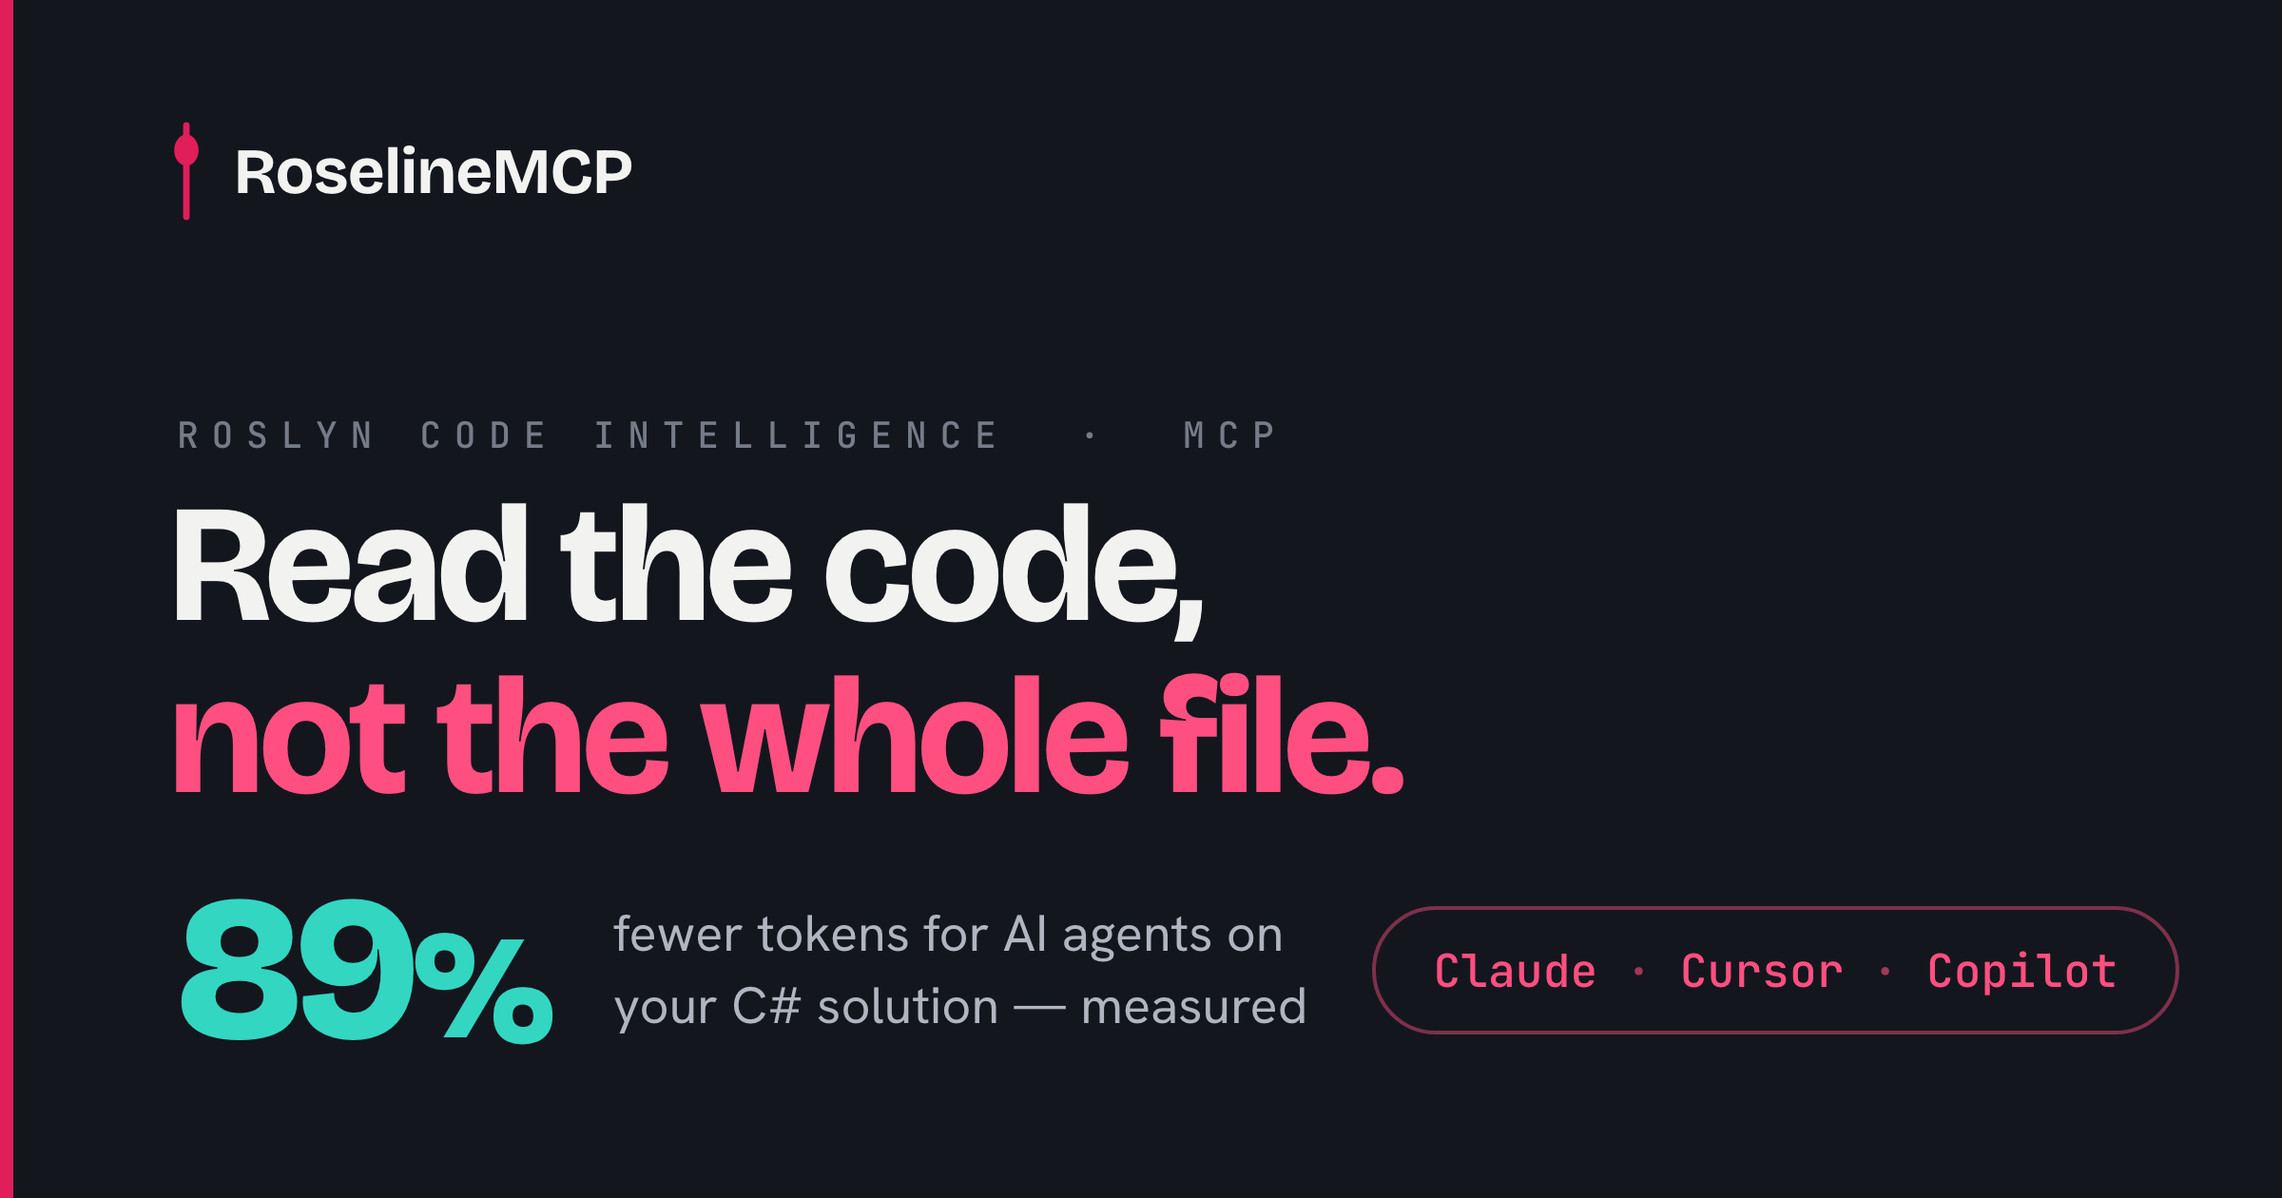
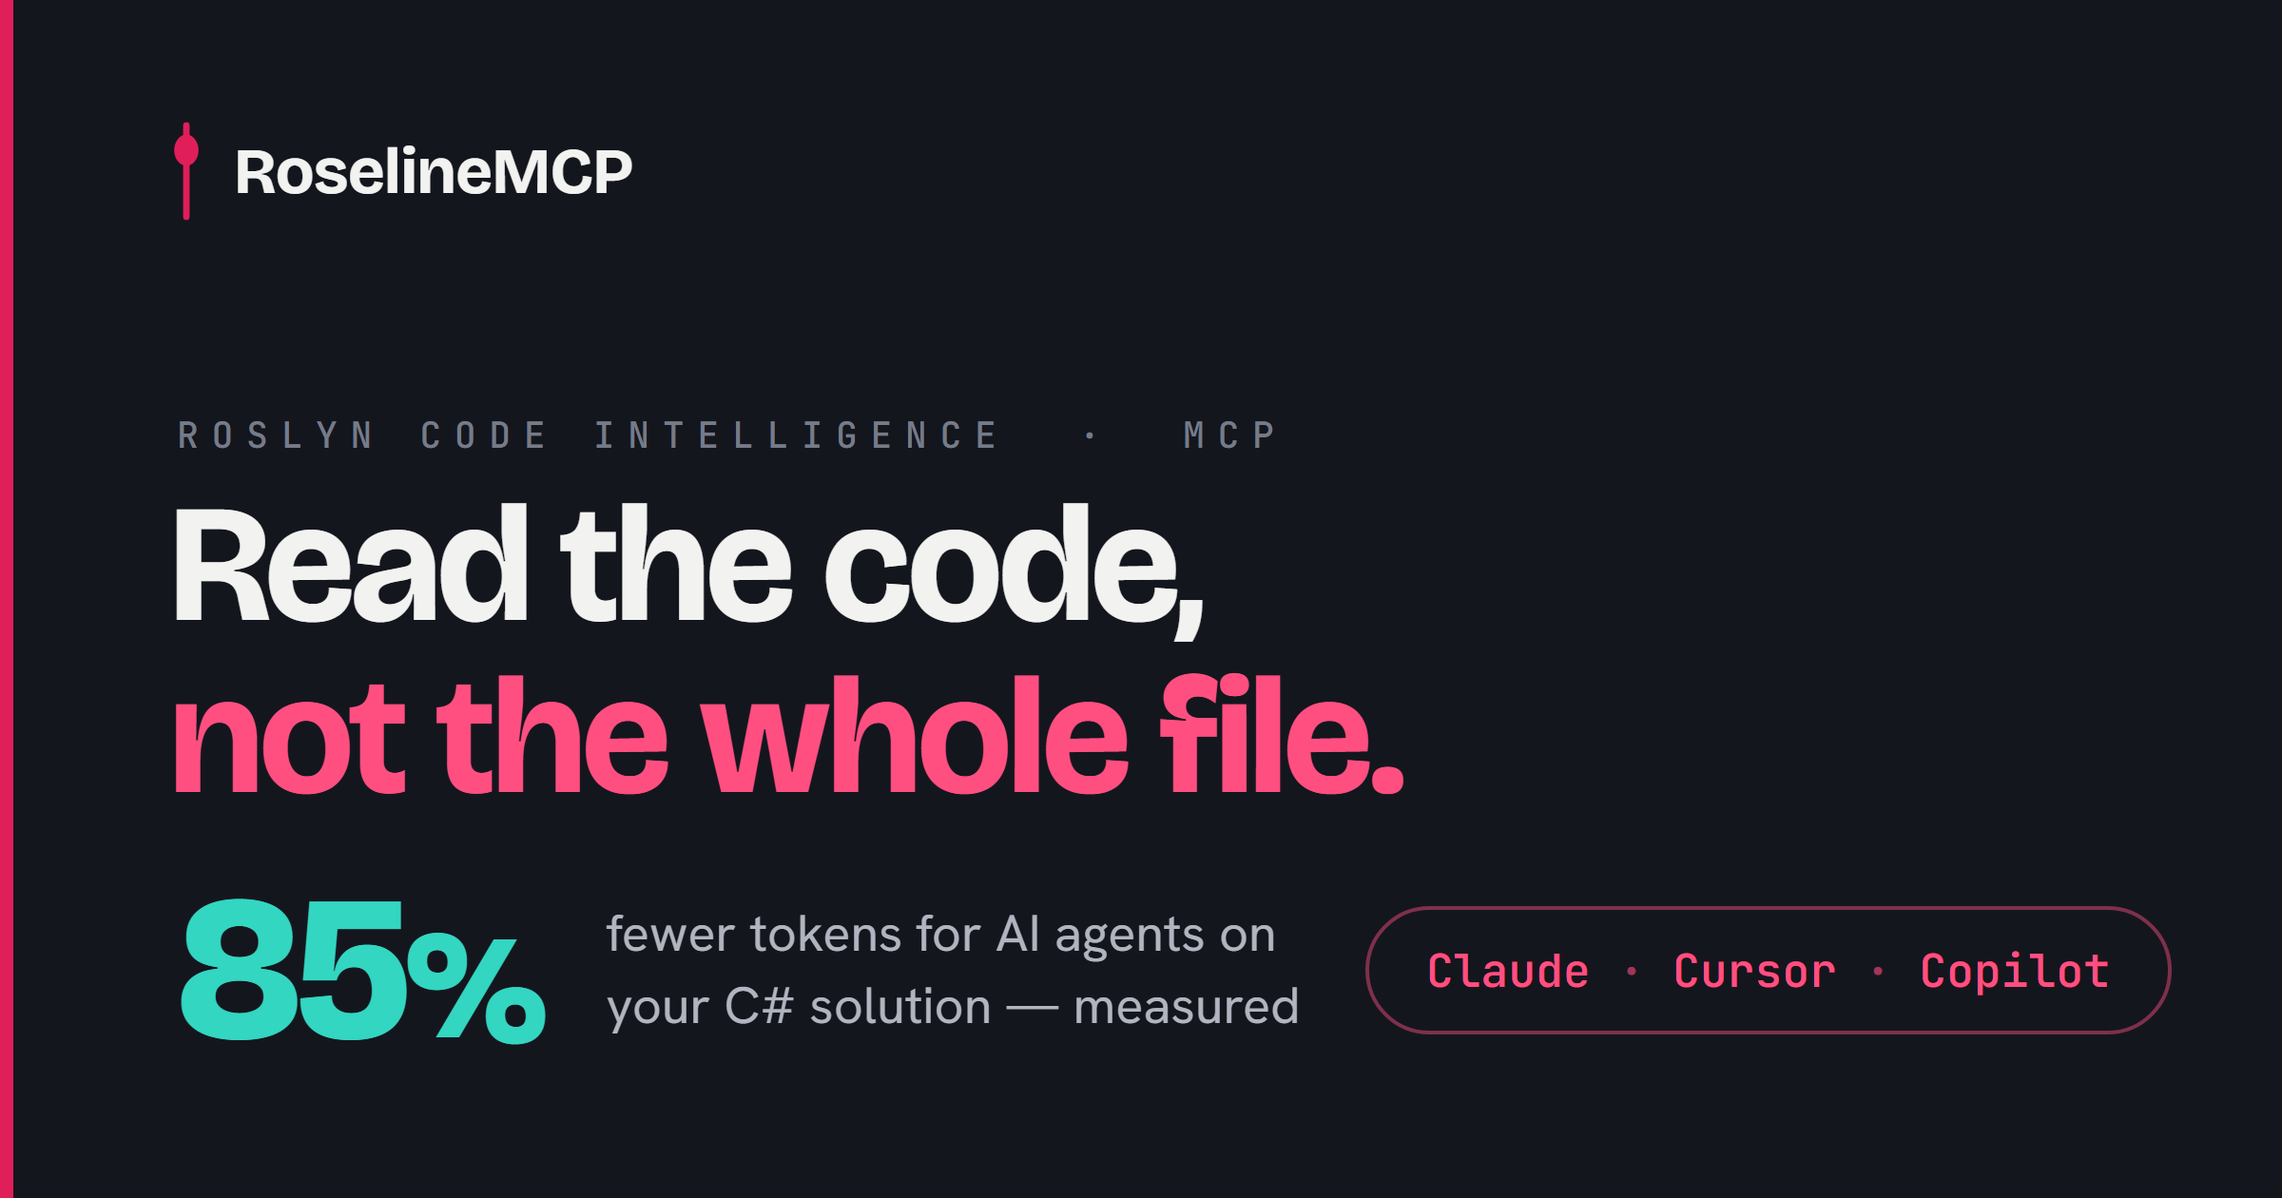
fix(docs): sync the published median token figure with the generated benchmark data (#182) (#195)
* chore(#182): scaffold draft PR for the median-figure sync

* test(docs): pin the published median token figure to the generated benchmark data

* fix(docs): correct the stale 89% median in BENCHMARKS, AGENT-BENCHMARK and the mcpb manifest

* fix(website): re-render the OG card with the current median figure

* docs: record what the median-figure guard rail does and does not cover

* fix: address code-review findings

diff --git a/website/og-card.html b/website/og-card.html
@@ -113,7 +113,7 @@
   </div>
 
   <div class="stat-row">
-    <div class="stat">89<span class="pct">%</span></div>
+    <div class="stat">85<span class="pct">%</span></div>
     <div class="caption">fewer tokens for AI agents on<br />your C# solution — measured</div>
     <div class="pill">Claude <span class="sep">·</span> Cursor <span class="sep">·</span> Copilot</div>
   </div>

diff --git a/RoselineMCP.Tests/Release/MedianFigureContractTests.cs b/RoselineMCP.Tests/Release/MedianFigureContractTests.cs
@@ -1,0 +1,256 @@
+using System.Globalization;
+using System.Runtime.CompilerServices;
+using System.Text;
+using System.Text.Json;
+using Shouldly;
+
+namespace RoselineMCP.Tests.Release;
+
+/// <summary>
+/// Pins every <b>hand-written</b> restatement of the headline token-saving median to the value
+/// <c>RoselineMCP.TokenBenchmark</c> actually generated, in
+/// <c>website/src/data/benchmark-results.json</c>.
+/// <para>
+/// <b>Why this exists.</b> Nine surfaces publish that median. Two <i>derive</i> it
+/// (<c>index.astro</c>, <c>benchmark.astro</c>, via <c>Math.round(x * 100)</c>) and have never
+/// drifted, because they cannot. The other seven restate it by hand, and re-measuring the benchmark
+/// moves the number under all seven at once. That has now happened twice - at [2.1.1] and again
+/// when the sweep grew from 568 to 670 tasks and the median moved 88.55% to 84.66% - and both times
+/// a careful "did you update them all?" review pass announced completion and left something behind.
+/// The second pass fixed <c>docs/AGENT-BENCHMARK.md</c>'s first occurrence and missed its second,
+/// in the same file.
+/// </para>
+/// <para>
+/// The failure mode is silence: the pooled figure (93%) did not move, so every stale surface still
+/// gets half of its claim right and the mismatched half reads as a rounding difference. Nothing
+/// builds, nothing runs, nothing goes red - the repository simply publishes a number its own
+/// generated data does not support. This is the same class of guard as
+/// <see cref="ReleaseWorkflowTests"/>: an assertion the build can evaluate, standing in for a
+/// sentence in a changelog that asserted the surfaces were synced when nobody had checked.
+/// </para>
+/// <para>
+/// <b>A re-measurement is supposed to fail every test in this class at once.</b> When the median
+/// crosses a rounding boundary, that is not a broken test - it is the guard doing its only job.
+/// Update the surfaces the failure messages name; do not loosen the assertions, and do not write
+/// the expected percentage into this file. A test that hardcoded <c>85</c> would reproduce exactly
+/// the defect it exists to prevent.
+/// </para>
+/// <para>
+/// <b>Scope.</b> This class pins the <i>headline</i> median and nothing else. Two neighbouring
+/// figures are deliberately out of its reach and must not be folded in: the pooled, size-weighted
+/// 93%, which did not move with the median, and the separate end-to-end medians in
+/// <c>docs/AGENT-BENCHMARK.md</c> (the ~50% forced-use ceiling and ~13% self-directed figures),
+/// which measure a different thing entirely. That is why each claim below is anchored on the words
+/// around it rather than on a bare percentage: an assertion keyed to "any two-digit figure near the
+/// word median" would fail on those correct sentences and tell the reader to corrupt them.
+/// </para>
+/// </summary>
+public class MedianFigureContractTests
+{
+    /// <summary>
+    /// The generated source of truth. Everything else either derives from this file or is pinned
+    /// against it below.
+    /// </summary>
+    private const string BenchmarkDataPath = "website/src/data/benchmark-results.json";
+
+    /// <summary>
+    /// The four sites in the README, including the shields.io badge - whose figure is
+    /// <b>URL-encoded</b> (<c>%25</c> for the percent sign), so a reader looking for "85%" in the
+    /// raw file does not find it and a careless sweep skips the badge. The badge is the first
+    /// number anyone sees on the repository page.
+    /// </summary>
+    [Fact]
+    public void Readme_Should_State_The_Generated_Median()
+    {
+        AssertClaim("README.md", "Measured {median}% fewer tokens (median)", 1);
+        AssertClaim("README.md", "tokens-{median}%25_fewer_(median)", 1);
+        AssertClaim("README.md", "**median {median}% fewer tokens per task**", 1);
+        AssertClaim("README.md", "**{median}% median** token reduction per task", 1);
+    }
+
+    /// <summary>
+    /// <c>BENCHMARKS.md</c> introduces the three benchmarks by naming what each one measures, so its
+    /// median <i>is</i> the definition a reader carries into the rest of the docs. The neighbouring
+    /// pooled figure (93%) is correct and is deliberately not pinned here - it did not move when the
+    /// median did, which is precisely why the drift stayed invisible.
+    /// </summary>
+    [Fact]
+    public void Benchmarks_Doc_Should_State_The_Generated_Median()
+    {
+        AssertClaim("BENCHMARKS.md", "**{median}% median** headline", 1);
+    }
+
+    /// <summary>
+    /// <b>Two</b> occurrences, asserted by count rather than by "contains". This file is where the
+    /// bug this class guards actually lived: line 5 was corrected and line 52 was not, leaving the
+    /// document contradicting itself. A <c>ShouldContain</c> assertion passes that state, so it
+    /// would have shipped the defect while reporting green.
+    /// </summary>
+    [Fact]
+    public void AgentBenchmark_Doc_Should_State_The_Generated_Median_In_Both_Places()
+    {
+        AssertClaim("docs/AGENT-BENCHMARK.md", "**median {median}%** reduction per task", 1);
+        AssertClaim("docs/AGENT-BENCHMARK.md", "per-call savings ({median}% median)", 1);
+    }
+
+    /// <summary>
+    /// The site's default meta description and the <c>og:image:alt</c> that describes the social
+    /// card. The alt text is the one machine-readable claim about <c>website/public/og.png</c>, an
+    /// image no test can read - so if these two ever disagree with the card, the alt text is the
+    /// only side a build can see.
+    /// </summary>
+    [Fact]
+    public void Site_Layout_Should_State_The_Generated_Median_In_Both_Meta_Sites()
+    {
+        AssertClaim("website/src/layouts/Base.astro", "{median}% fewer tokens (median)", 2);
+    }
+
+    /// <summary>
+    /// <c>long_description</c> ships <i>inside</i> the <c>.mcpb</c> bundle attached to every GitHub
+    /// Release - it is the copy a user reads in their client while deciding whether to install. A
+    /// stale figure here is an overclaim that travels further from the repository than any other,
+    /// and it is reviewed by nobody, because the file is otherwise touched only by release-please's
+    /// version bump.
+    /// </summary>
+    [Fact]
+    public void Mcpb_Manifest_Should_State_The_Generated_Median()
+    {
+        AssertClaim("mcpb/manifest.json", "measured ~{median}% fewer tokens, median", 1);
+    }
+
+    /// <summary>
+    /// The template <c>website/public/og.png</c> is rendered from - the figure in every link
+    /// preview, social post and chat unfurl. This assertion pins the <b>template only</b>: the
+    /// rendered PNG is binary and is regenerated by hand, so a correct template with a stale image
+    /// still passes. That residual gap is real and is documented rather than papered over; see the
+    /// note in <c>BENCHMARKS.md</c>.
+    /// </summary>
+    [Fact]
+    public void OgCard_Template_Should_State_The_Generated_Median()
+    {
+        AssertClaim("website/og-card.html", "<div class=\"stat\">{median}<span class=\"pct\">%</span></div>", 1);
+    }
+
+    /// <summary>
+    /// Asserts that <paramref name="claimTemplate"/>, with the generated median substituted for
+    /// <c>{median}</c>, occurs in <paramref name="relativePath"/> exactly
+    /// <paramref name="expectedOccurrences"/> times - <b>and</b> that the same claim carrying any
+    /// other two-digit figure occurs nowhere in that file. The second half is what distinguishes
+    /// this from a <c>ShouldContain</c>: a file that states the current median once and a
+    /// superseded one somewhere else is exactly the defect being guarded, and "contains" passes it.
+    /// </summary>
+    private static void AssertClaim(string relativePath, string claimTemplate, int expectedOccurrences)
+    {
+        // Both sides are whitespace-normalised before matching. These are hard-wrapped Markdown
+        // files, so a claim routinely straddles a newline (README's "median 85% fewer tokens / per
+        // task" does today). Matching raw text would couple every assertion to the current wrap:
+        // re-flowing a paragraph would fail the guard for no real reason, and — worse — a stale
+        // figure written across a line break would slip past the sweep below unseen.
+        var text = Normalize(ReadRepoFile(relativePath));
+        var median = CurrentMedianPercent.Value;
+        var claim = Normalize(Fill(claimTemplate, median));
+
+        Occurrences(text, claim).ShouldBe(
+            expectedOccurrences,
+            $"{relativePath} should carry \"{claim}\" exactly {expectedOccurrences} time(s) - the median generated in {BenchmarkDataPath} is {median}%.");
+
+        // Only two-digit figures are swept: every published claim is one, and the generated median
+        // has never been outside that range. A future median of 9% or 100% would still be pinned by
+        // the positive assertion above; this loop would simply have nothing stale to find.
+        for (var other = 10; other <= 99; other++)
+        {
+            if (other == median)
+            {
+                continue;
+            }
+
+            var stale = Normalize(Fill(claimTemplate, other));
+
+            Occurrences(text, stale).ShouldBe(
+                0,
+                $"{relativePath} still carries \"{stale}\", but the generated median in {BenchmarkDataPath} is {median}%. Update the surface, not this test.");
+        }
+    }
+
+    /// <summary>
+    /// The generated median as a whole percentage, rounded the way the website rounds it. The site
+    /// uses JavaScript's <c>Math.round</c>, which breaks ties upward rather than to even, so
+    /// <c>Math.Floor(x + 0.5)</c> is used here instead of <c>Math.Round</c> - otherwise the test and
+    /// the page it guards could disagree about a value landing exactly on .5.
+    /// <para>
+    /// Read once for the whole class: the benchmark data is a ~550 KB document and cannot change
+    /// during a run, so parsing it per assertion would re-parse it nine times for one number.
+    /// </para>
+    /// </summary>
+    private static readonly Lazy<int> CurrentMedianPercent = new(() =>
+    {
+        using var document = JsonDocument.Parse(ReadRepoFile(BenchmarkDataPath));
+
+        var median = document.RootElement
+            .GetProperty("headline")
+            .GetProperty("medianSavingsReadTools")
+            .GetDouble();
+
+        return (int)Math.Floor((median * 100) + 0.5);
+    });
+
+    /// <summary>
+    /// Collapses every run of whitespace to a single space so a claim matches regardless of where
+    /// the file happens to wrap. See the comment in <see cref="AssertClaim"/> for why that coupling
+    /// would otherwise be a hole in the guard rather than merely an inconvenience.
+    /// </summary>
+    private static string Normalize(string text)
+    {
+        var builder = new StringBuilder(text.Length);
+        var pendingSpace = false;
+
+        foreach (var c in text)
+        {
+            if (char.IsWhiteSpace(c))
+            {
+                pendingSpace = true;
+                continue;
+            }
+
+            if (pendingSpace && builder.Length > 0)
+            {
+                builder.Append(' ');
+            }
+
+            pendingSpace = false;
+            builder.Append(c);
+        }
+
+        return builder.ToString();
+    }
+
+    /// <summary>
+    /// Substitutes the figure by plain replacement rather than <c>string.Format</c>: the pinned
+    /// claims include HTML and JSON fragments, and a stray brace in one of them would turn a
+    /// missing assertion into a format exception.
+    /// </summary>
+    private static string Fill(string claimTemplate, int median) =>
+        claimTemplate.Replace("{median}", median.ToString(CultureInfo.InvariantCulture), StringComparison.Ordinal);
+
+    private static int Occurrences(string haystack, string needle)
+    {
+        var count = 0;
+
+        for (var i = haystack.IndexOf(needle, StringComparison.Ordinal); i >= 0; i = haystack.IndexOf(needle, i + needle.Length, StringComparison.Ordinal))
+        {
+            count++;
+        }
+
+        return count;
+    }
+
+    private static string ReadRepoFile(string relativePath) => File.ReadAllText(RepoPath(relativePath));
+
+    /// <summary>
+    /// Resolves a repository-relative path from this source file's compile-time location - the same
+    /// idiom <see cref="ReleaseWorkflowTests"/> and <c>ToolSchemaSnapshotTests</c> use. This file
+    /// lives at <c>RoselineMCP.Tests/Release/</c>, so the repository root is two levels up.
+    /// </summary>
+    private static string RepoPath(string relativePath, [CallerFilePath] string sourceFile = "") =>
+        Path.GetFullPath(Path.Combine(Path.GetDirectoryName(sourceFile)!, "..", "..", relativePath));
+}

diff --git a/BENCHMARKS.md b/BENCHMARKS.md
@@ -9,11 +9,38 @@ how does it scale with project size?*
 
 > **Three different benchmarks, three different questions:** this one measures **latency**;
 > [`RoselineMCP.TokenBenchmark`](RoselineMCP.TokenBenchmark) measures how compact a single tool
-> response is (the **89% median** headline; pooled, size-weighted: 93%); and
+> response is (the **85% median** headline; pooled, size-weighted: 93%); and
 > [`docs/AGENT-BENCHMARK.md`](docs/AGENT-BENCHMARK.md) measures whether an AI agent doing a real
 > task **end to end** actually spends fewer tokens with RoselineMCP installed (spoiler: on large
 > codebases, yes — ~50% when forced onto the tools (the ceiling), ~13% in realistic self-directed
 > use (n = 1); on tiny ones, break-even).
+
+## Where the headline median is published, and what checks it
+
+`website/src/data/benchmark-results.json` (`headline.medianSavingsReadTools`) is the **source of
+truth** — `RoselineMCP.TokenBenchmark` generates it. `index.astro` and `benchmark.astro` compute
+**the headline median itself** from that file (`Math.round(x * 100)`), so that one number cannot
+drift on those pages. Every other published statement of it is hand-written, and
+`RoselineMCP.Tests/Release/MedianFigureContractTests.cs` pins each one against the JSON:
+`README.md` (four sites, badge included), this file, `docs/AGENT-BENCHMARK.md` (both occurrences),
+`website/src/layouts/Base.astro` (both), `mcpb/manifest.json` and `website/og-card.html`.
+Re-measuring is meant to fail all of them at once — update the surfaces the failure names; do not
+loosen the test.
+
+⚠ **"Computed" covers the headline median only.** Those same site pages also carry hand-written
+*per-file* and *per-suite* figures drawn from the same regenerated JSON — the outline examples and
+suite prose on `benchmark.astro`, and the `Program.cs` token-count pull-quote repeated on
+`index.astro` and `README.md`. Nothing pins those, and a re-measurement moves them too. Do not read
+the paragraph above as permission to skip the site after re-running the benchmark.
+
+⚠ **One gap the test does not close: `website/public/og.png`.** The card is a rendered image, so
+the guard pins its **template** (`og-card.html`) and not its pixels — a corrected template with a
+stale PNG still passes. The image is regenerated by hand from that template (the procedure is in
+`og-card.html`'s header comment), and `Base.astro`'s `og:image:alt` is the only machine-readable
+claim about what it shows. So when the median changes, re-render the card as a deliberate step: no
+test will tell you that you forgot. A CI step that re-renders the template and diffs it against the
+committed PNG would close this mechanically and is worth doing; it is out of scope here only
+because it adds a build-time render this change deliberately does not introduce.
 
 ## Running it
 

diff --git a/docs/AGENT-BENCHMARK.md b/docs/AGENT-BENCHMARK.md
@@ -49,7 +49,7 @@ So RoselineMCP was never a *correctness* factor here; the only variable that mov
    (RoselineMCP's own ~700-line services) navigating structurally instead of reading whole files
    **roughly halved** the tokens for the same correct answer, in half the turns (3 tool calls
    total) — under forced use, i.e. the ceiling. This is where the unit benchmark's per-call savings
-   (89% median) convert into real end-to-end savings. On tiny files it is
+   (85% median) convert into real end-to-end savings. On tiny files it is
    **break-even to slightly worse** — reading a 30-line file is already cheap, so the fixed cost of
    the MCP's tool schemas plus per-call round-trips cancels the saving.
 
